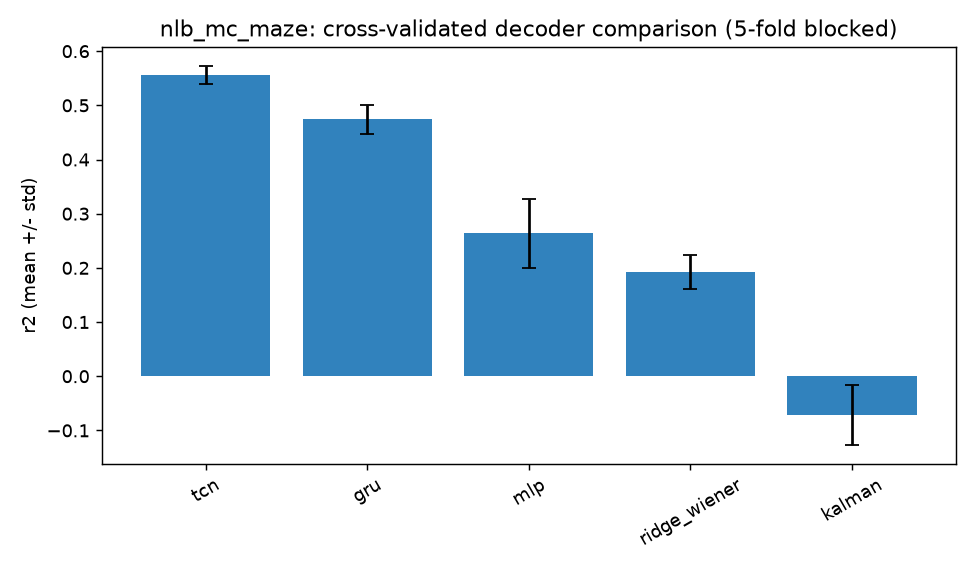
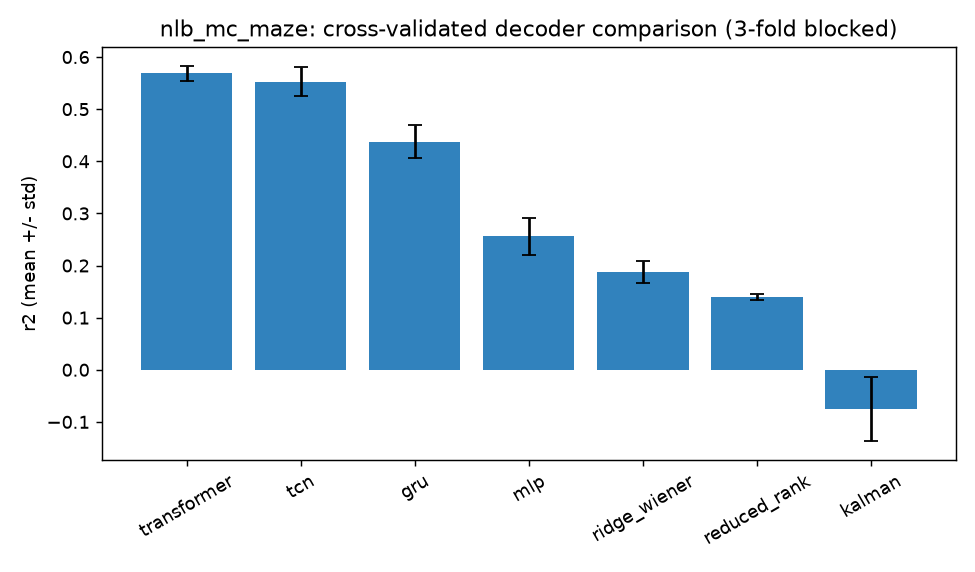
Cross-validate all 7 decoders; refresh CV figure + narrative
3-fold blocked CV across all seven decoders on MC_Maze. Transformer (0.57 +/-
0.01) and TCN (0.55 +/- 0.03) top it with overlapping error bars -> effectively
tied; linear models well below. README CV note + results narrative updated to
the cross-validated reality (no more "uncross-validated follow-up" caveat).

diff --git a/README.md b/README.md
@@ -50,7 +50,7 @@ Two datasets, identical code, 25% held-out **temporal** tail. Metrics: **R²** +
 | `reduced_rank` | 0.17 | 0.41 | 148 |
 | `kalman` | −0.02 | 0.38 | 26556 |
 
-On clean synthetic data the linear family wins (reduced-rank and ridge top the table, the neural nets add nothing). On real MC_Maze the sequence models (transformer, TCN, GRU) roughly double to triple the linear baseline. The transformer edged ahead on this single split, but the cross-validated error bars below show how close the top sequence models actually are, which is exactly why you don't trust a single-split ranking.
+On clean synthetic data the linear family wins (reduced-rank and ridge top the table, the neural nets add nothing). On real MC_Maze the sequence models (transformer, TCN, GRU) roughly double to triple the linear baseline. The transformer leads on both the single split and cross-validation, but its margin over TCN sits inside the error bars — at the top they're effectively tied, which is the kind of call you can only make with cross-validation, not a single split.
 
 _Regenerate: `make demo` (synthetic) or `python -m ndz.run --dataset mc_maze --nwb-path <file> --cv --robustness` (after the NLB download below)._
 
@@ -90,7 +90,7 @@ The lesson, learned the hard way on real stimulation data: validate against beha
 
 Beyond a single accuracy number, the zoo probes what a real BCI actually cares about.
 
-**Cross-validated comparison (error bars).** 5-fold blocked CV with an embargo gap, across the core models. Averaged over folds, **TCN is the robust leader** — a useful counter to the single-split table above, where the transformer happened to nudge ahead. That gap between a single split and the cross-validated ranking is the whole point of showing error bars. (Cross-validating the two newest rungs, transformer and reduced-rank, is a quick follow-up.)
+**Cross-validated comparison (error bars).** 3-fold blocked CV with an embargo gap, all seven models. The transformer and TCN top it with **overlapping error bars** (≈0.57 vs ≈0.55) — effectively tied — while the linear models sit well below. The error bars are the point: they let you say "tied" rather than crowning whatever happened to win a single split.
 
 ![cross-validated decoder comparison](docs/cv_mc_maze.png)
 
